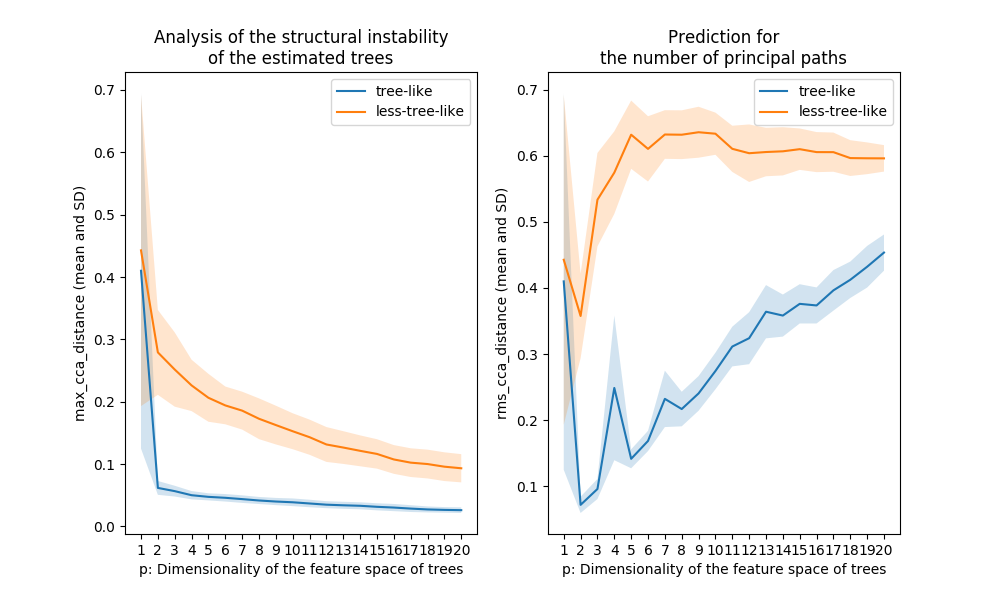
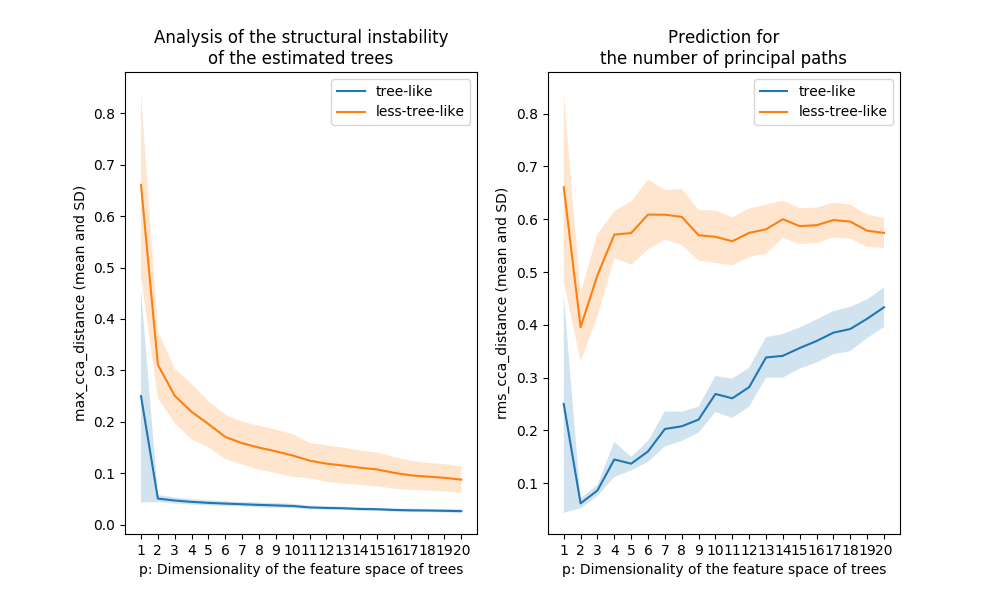
docs: update

diff --git a/docs/1.0.0/getting_started.html b/docs/1.0.0/getting_started.html
@@ -59,6 +59,10 @@
           
             
             
+              <div class="version">
+                1.0.0
+              </div>
+            
           
 
           
@@ -273,50 +277,50 @@ if possible. Because it’s useful to identify the estimation.</p>
 <span class="go">treefit.fit.Fit: tree-like</span>
 <span class="go">max_cca_distance:</span>
 <span class="go">     p      mean  standard_deviation</span>
-<span class="go">0    1  0.409974            0.285109</span>
-<span class="go">1    2  0.061813            0.011111</span>
-<span class="go">2    3  0.056636            0.008635</span>
-<span class="go">3    4  0.050109            0.006672</span>
-<span class="go">4    5  0.047457            0.005703</span>
-<span class="go">5    6  0.045953            0.006010</span>
-<span class="go">6    7  0.043853            0.006076</span>
-<span class="go">7    8  0.041631            0.005682</span>
-<span class="go">8    9  0.039969            0.005780</span>
-<span class="go">9   10  0.038769            0.006170</span>
-<span class="go">10  11  0.036845            0.006025</span>
-<span class="go">11  12  0.034912            0.005607</span>
-<span class="go">12  13  0.033934            0.005657</span>
-<span class="go">13  14  0.033136            0.005605</span>
-<span class="go">14  15  0.031499            0.005691</span>
-<span class="go">15  16  0.030304            0.005783</span>
-<span class="go">16  17  0.028646            0.005470</span>
-<span class="go">17  18  0.027281            0.004795</span>
-<span class="go">18  19  0.026554            0.004516</span>
-<span class="go">19  20  0.026120            0.004547</span>
+<span class="go">0    1  0.250146            0.206494</span>
+<span class="go">1    2  0.051176            0.006847</span>
+<span class="go">2    3  0.047410            0.005925</span>
+<span class="go">3    4  0.044776            0.005064</span>
+<span class="go">4    5  0.042841            0.004981</span>
+<span class="go">5    6  0.041417            0.004503</span>
+<span class="go">6    7  0.040180            0.004409</span>
+<span class="go">7    8  0.038895            0.004700</span>
+<span class="go">8    9  0.037867            0.004777</span>
+<span class="go">9   10  0.036732            0.004368</span>
+<span class="go">10  11  0.033983            0.003487</span>
+<span class="go">11  12  0.032954            0.003134</span>
+<span class="go">12  13  0.032330            0.003076</span>
+<span class="go">13  14  0.030962            0.003115</span>
+<span class="go">14  15  0.030477            0.003145</span>
+<span class="go">15  16  0.029043            0.003301</span>
+<span class="go">16  17  0.028344            0.003324</span>
+<span class="go">17  18  0.028030            0.003190</span>
+<span class="go">18  19  0.027412            0.003487</span>
+<span class="go">19  20  0.026763            0.003616</span>
 <span class="go">rms_cca_distance:</span>
 <span class="go">     p      mean  standard_deviation</span>
-<span class="go">0    1  0.409974            0.285109</span>
-<span class="go">1    2  0.071749            0.012321</span>
-<span class="go">2    3  0.095787            0.015187</span>
-<span class="go">3    4  0.248709            0.109382</span>
-<span class="go">4    5  0.141438            0.014318</span>
-<span class="go">5    6  0.168498            0.015335</span>
-<span class="go">6    7  0.232164            0.042672</span>
-<span class="go">7    8  0.216773            0.026165</span>
-<span class="go">8    9  0.240423            0.026233</span>
-<span class="go">9   10  0.274325            0.027687</span>
-<span class="go">10  11  0.311347            0.030041</span>
-<span class="go">11  12  0.323996            0.039342</span>
-<span class="go">12  13  0.364066            0.040308</span>
-<span class="go">13  14  0.358229            0.031836</span>
-<span class="go">14  15  0.375973            0.029717</span>
-<span class="go">15  16  0.373554            0.027283</span>
-<span class="go">16  17  0.396388            0.030716</span>
-<span class="go">17  18  0.412390            0.027546</span>
-<span class="go">18  19  0.432107            0.031504</span>
-<span class="go">19  20  0.453579            0.027382</span>
+<span class="go">0    1  0.250146            0.206494</span>
+<span class="go">1    2  0.061862            0.009154</span>
+<span class="go">2    3  0.086364            0.010875</span>
+<span class="go">3    4  0.144999            0.033403</span>
+<span class="go">4    5  0.137016            0.012939</span>
+<span class="go">5    6  0.160256            0.019916</span>
+<span class="go">6    7  0.202738            0.033149</span>
+<span class="go">7    8  0.207836            0.027705</span>
+<span class="go">8    9  0.220540            0.024666</span>
+<span class="go">9   10  0.269019            0.034272</span>
+<span class="go">10  11  0.260835            0.037123</span>
+<span class="go">11  12  0.281931            0.036837</span>
+<span class="go">12  13  0.338116            0.038613</span>
+<span class="go">13  14  0.341297            0.041255</span>
+<span class="go">14  15  0.356007            0.039159</span>
+<span class="go">15  16  0.369316            0.040681</span>
+<span class="go">16  17  0.385138            0.040966</span>
+<span class="go">17  18  0.392087            0.041909</span>
+<span class="go">18  19  0.411500            0.036723</span>
+<span class="go">19  20  0.433173            0.037426</span>
 <span class="go">n_principal_paths_candidates:</span>
-<span class="go">[3, 6, 9, 15, 17]</span>
+<span class="go">[3, 6, 12]</span>
 </pre></div>
 </div>
 <p><a class="reference internal" href="api/treefit.treefit.html#treefit.treefit" title="treefit.treefit"><code class="xref py py-func docutils literal notranslate"><span class="pre">treefit.treefit()</span></code></a> returns a <a class="reference internal" href="api/treefit.fit.Fit.html#treefit.fit.Fit" title="treefit.fit.Fit"><code class="xref py py-class docutils literal notranslate"><span class="pre">treefit.fit.Fit</span></code></a>
@@ -345,50 +349,50 @@ makes it easier to interpret the results of the Treefit analysis.</p>
 <span class="go">treefit.fit.Fit: less-tree-like</span>
 <span class="go">max_cca_distance:</span>
 <span class="go">     p      mean  standard_deviation</span>
-<span class="go">0    1  0.442693            0.249671</span>
-<span class="go">1    2  0.279127            0.068057</span>
-<span class="go">2    3  0.251634            0.059544</span>
-<span class="go">3    4  0.226191            0.041197</span>
-<span class="go">4    5  0.206328            0.038400</span>
-<span class="go">5    6  0.194098            0.030283</span>
-<span class="go">6    7  0.185742            0.030380</span>
-<span class="go">7    8  0.172695            0.032677</span>
-<span class="go">8    9  0.162589            0.031053</span>
-<span class="go">9   10  0.152677            0.028817</span>
-<span class="go">10  11  0.143138            0.028216</span>
-<span class="go">11  12  0.131457            0.027949</span>
-<span class="go">12  13  0.126538            0.026254</span>
-<span class="go">13  14  0.121279            0.024763</span>
-<span class="go">14  15  0.116295            0.023596</span>
-<span class="go">15  16  0.107436            0.023038</span>
-<span class="go">16  17  0.102329            0.023029</span>
-<span class="go">17  18  0.100068            0.023078</span>
-<span class="go">18  19  0.095846            0.023048</span>
-<span class="go">19  20  0.093304            0.022631</span>
+<span class="go">0    1  0.660549            0.178405</span>
+<span class="go">1    2  0.311175            0.064826</span>
+<span class="go">2    3  0.250870            0.052934</span>
+<span class="go">3    4  0.219747            0.054039</span>
+<span class="go">4    5  0.195896            0.044672</span>
+<span class="go">5    6  0.170982            0.043217</span>
+<span class="go">6    7  0.158720            0.041452</span>
+<span class="go">7    8  0.150130            0.042880</span>
+<span class="go">8    9  0.142930            0.042047</span>
+<span class="go">9   10  0.134839            0.041557</span>
+<span class="go">10  11  0.124897            0.034315</span>
+<span class="go">11  12  0.118985            0.035402</span>
+<span class="go">12  13  0.115300            0.034799</span>
+<span class="go">13  14  0.111110            0.033420</span>
+<span class="go">14  15  0.107803            0.033088</span>
+<span class="go">15  16  0.101256            0.030642</span>
+<span class="go">16  17  0.096272            0.028283</span>
+<span class="go">17  18  0.093874            0.026754</span>
+<span class="go">18  19  0.091495            0.026570</span>
+<span class="go">19  20  0.087971            0.025590</span>
 <span class="go">rms_cca_distance:</span>
 <span class="go">     p      mean  standard_deviation</span>
-<span class="go">0    1  0.442693            0.249671</span>
-<span class="go">1    2  0.357583            0.063909</span>
-<span class="go">2    3  0.533569            0.070730</span>
-<span class="go">3    4  0.574569            0.062477</span>
-<span class="go">4    5  0.631992            0.051649</span>
-<span class="go">5    6  0.610509            0.049393</span>
-<span class="go">6    7  0.632263            0.036809</span>
-<span class="go">7    8  0.631944            0.036902</span>
-<span class="go">8    9  0.635713            0.038564</span>
-<span class="go">9   10  0.633485            0.031913</span>
-<span class="go">10  11  0.610604            0.034958</span>
-<span class="go">11  12  0.603947            0.043525</span>
-<span class="go">12  13  0.605754            0.036684</span>
-<span class="go">13  14  0.606835            0.036492</span>
-<span class="go">14  15  0.610080            0.031338</span>
-<span class="go">15  16  0.605628            0.030329</span>
-<span class="go">16  17  0.605558            0.029649</span>
-<span class="go">17  18  0.596581            0.027090</span>
-<span class="go">18  19  0.596271            0.024013</span>
-<span class="go">19  20  0.596162            0.020042</span>
+<span class="go">0    1  0.660549            0.178405</span>
+<span class="go">1    2  0.395424            0.064857</span>
+<span class="go">2    3  0.493876            0.078010</span>
+<span class="go">3    4  0.570748            0.044399</span>
+<span class="go">4    5  0.573773            0.059871</span>
+<span class="go">5    6  0.608730            0.066378</span>
+<span class="go">6    7  0.608451            0.046609</span>
+<span class="go">7    8  0.604464            0.053067</span>
+<span class="go">8    9  0.569588            0.047918</span>
+<span class="go">9   10  0.566673            0.049635</span>
+<span class="go">10  11  0.558255            0.045642</span>
+<span class="go">11  12  0.574127            0.045931</span>
+<span class="go">12  13  0.580904            0.046346</span>
+<span class="go">13  14  0.599912            0.035397</span>
+<span class="go">14  15  0.586862            0.033742</span>
+<span class="go">15  16  0.588596            0.033467</span>
+<span class="go">16  17  0.598418            0.032851</span>
+<span class="go">17  18  0.595406            0.032333</span>
+<span class="go">18  19  0.578192            0.030721</span>
+<span class="go">19  20  0.574045            0.028437</span>
 <span class="go">n_principal_paths_candidates:</span>
-<span class="go">[3, 7, 9, 13]</span>
+<span class="go">[3, 12, 16]</span>
 </pre></div>
 </div>
 <div class="highlight-ipython notranslate"><div class="highlight"><pre><span></span><span class="gp">In [14]: </span><span class="n">treefit</span><span class="o">.</span><span class="n">plot</span><span class="p">(</span><span class="n">fit_less_tree_like</span><span class="p">)</span>

diff --git a/docs/1.0.0/_modules/index.html b/docs/1.0.0/_modules/index.html
@@ -57,6 +57,10 @@
           
             
             
+              <div class="version">
+                1.0.0
+              </div>
+            
           
 
           

diff --git a/docs/1.0.0/_modules/treefit/data.html b/docs/1.0.0/_modules/treefit/data.html
@@ -57,6 +57,10 @@
           
             
             
+              <div class="version">
+                1.0.0
+              </div>
+            
           
 
           

diff --git a/docs/1.0.0/_modules/treefit/fit.html b/docs/1.0.0/_modules/treefit/fit.html
@@ -57,6 +57,10 @@
           
             
             
+              <div class="version">
+                1.0.0
+              </div>
+            
           
 
           

diff --git a/docs/1.0.0/api.html b/docs/1.0.0/api.html
@@ -59,6 +59,10 @@
           
             
             
+              <div class="version">
+                1.0.0
+              </div>
+            
           
 
           

diff --git a/docs/1.0.0/api/treefit.data.generate_2d_n_arms_linked_star_data.html b/docs/1.0.0/api/treefit.data.generate_2d_n_arms_linked_star_data.html
@@ -59,6 +59,10 @@
           
             
             
+              <div class="version">
+                1.0.0
+              </div>
+            
           
 
           

diff --git a/docs/1.0.0/api/treefit.data.generate_2d_n_arms_star_data.html b/docs/1.0.0/api/treefit.data.generate_2d_n_arms_star_data.html
@@ -59,6 +59,10 @@
           
             
             
+              <div class="version">
+                1.0.0
+              </div>
+            
           
 
           

diff --git a/docs/1.0.0/api/treefit.data.html b/docs/1.0.0/api/treefit.data.html
@@ -59,6 +59,10 @@
           
             
             
+              <div class="version">
+                1.0.0
+              </div>
+            
           
 
           

diff --git a/docs/1.0.0/api/treefit.fit.Fit.html b/docs/1.0.0/api/treefit.fit.Fit.html
@@ -59,6 +59,10 @@
           
             
             
+              <div class="version">
+                1.0.0
+              </div>
+            
           
 
           

diff --git a/docs/1.0.0/api/treefit.fit.html b/docs/1.0.0/api/treefit.fit.html
@@ -59,6 +59,10 @@
           
             
             
+              <div class="version">
+                1.0.0
+              </div>
+            
           
 
           

diff --git a/docs/1.0.0/api/treefit.html b/docs/1.0.0/api/treefit.html
@@ -59,6 +59,10 @@
           
             
             
+              <div class="version">
+                1.0.0
+              </div>
+            
           
 
           

diff --git a/docs/1.0.0/api/treefit.plot.html b/docs/1.0.0/api/treefit.plot.html
@@ -59,6 +59,10 @@
           
             
             
+              <div class="version">
+                1.0.0
+              </div>
+            
           
 
           
